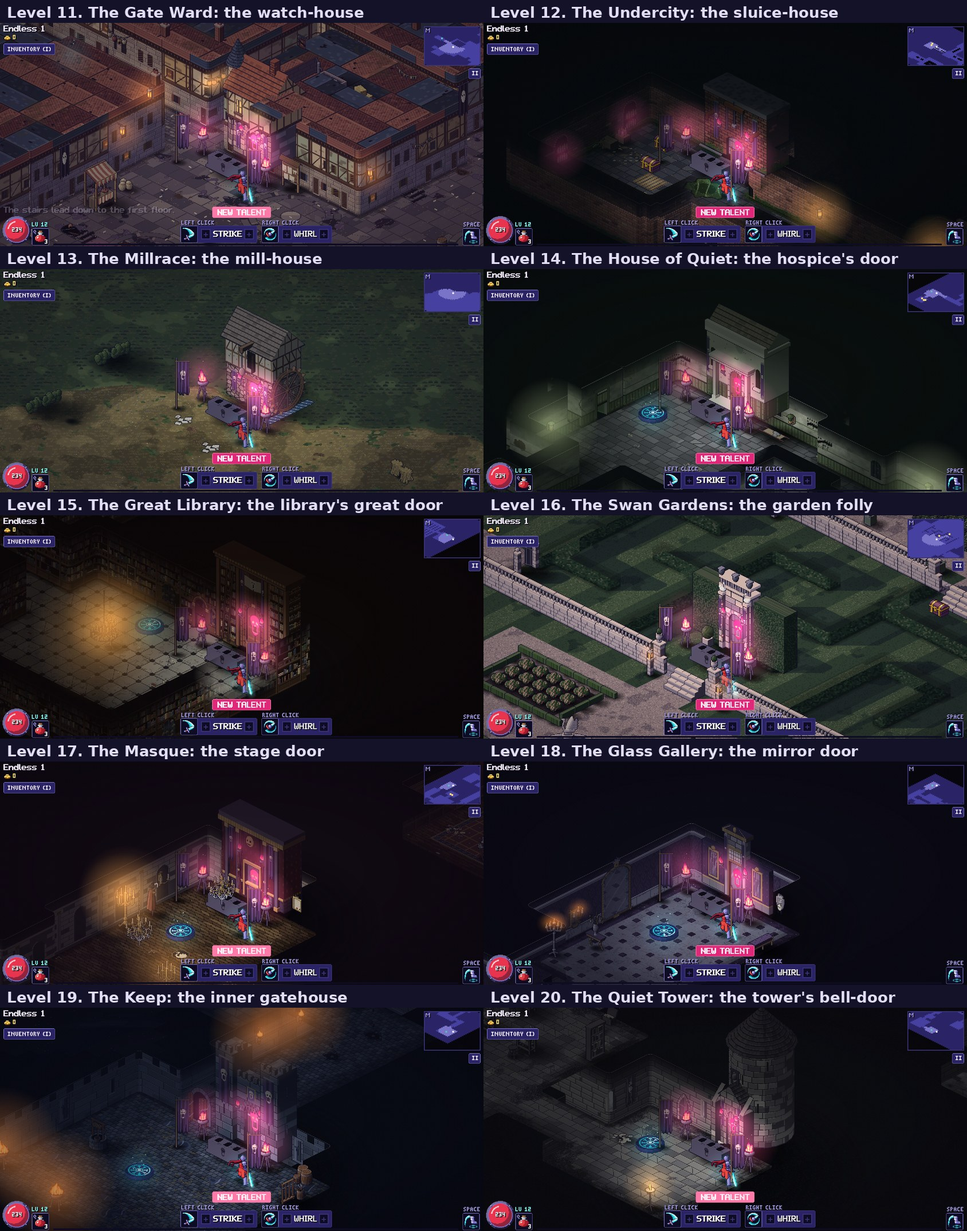
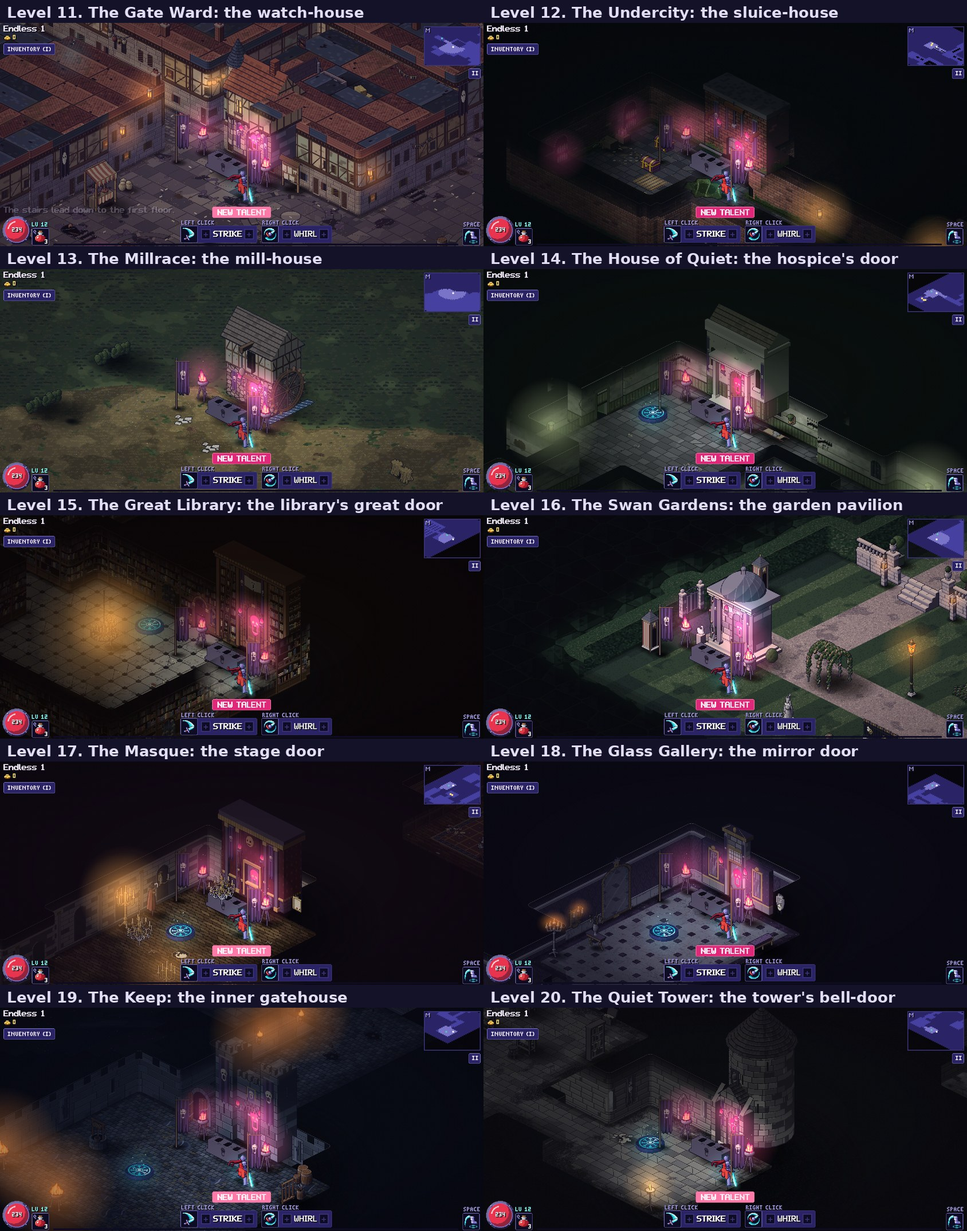
Level 16's stronghold front a garden pavilion standing on its own, at his word
His word, 25 Nov 2026: “16 doesn’t work as well”. The folly's hedges jammed against the gardens'
own balustrades and steps; it is now a small limestone temple on two steps, four columns, a ribbed
lead dome, swans on plinths, clipped box, roses, the cult's banners and fire: “the garden pavilion”.
Pictured on the gardens' open lawn (the scenario's OPEN).

Claude-Session: https://claude.ai/code/session_01JYSqoWBVKqU7pDHBLP4BaC

Changed region(s): [[0.4929, 0.4051, 1.0, 0.6233]]

diff --git a/src/art/hold_fronts.ts b/src/art/hold_fronts.ts
@@ -802,9 +802,12 @@ function libraryFront(open: boolean, f: number): Sprite {
 // =================================================================================================
 // FLOOR 16, THE SWAN GARDENS: THE SWAN PAVILION (art/floor16.ts)
 //
-// THE GARDEN FOLLY taken by the cult: an arch of the gardens' pale limestone set in a tall clipped yew hedge, a swan carved on each
-// pier, a balustrade and urns of lead on its top, clipped balls of box on plinths either side, roses climbing the stone; its door
-// sheeted in lead; the cult's banners hung from the arch, its pink fire, its mark burning in the lead.
+// THE GARDEN PAVILION taken by the cult, standing on its own in the gardens (his word on its first try, an arch in a yew hedge, 25
+// Nov 2026: “16 doesn’t work as well”; read as, and told him so: its hedges jammed against the gardens' own balustrades and steps,
+// where a garden building should stand on its own): a small temple of the gardens' pale limestone on a plinth of two steps, four
+// columns across its front, its room behind them with its door sheeted in lead, a ribbed dome of lead with a lantern on its crown,
+// a carved swan on a plinth at each front corner, clipped box either side, roses up a column; the cult's banners hung between its
+// columns, its pink fire either side of its door, its mark burning in the lead.
 
 
 /** A carved SWAN sitting on a plinth's top at (x, y, z): its body, its neck curved up, its head, facing `dir` (1: to the right). */
@@ -820,47 +823,50 @@ function swan(F: Front, x: number, y: number, z: number, dir: number, stone: Ram
 
 function follyFront(open: boolean, f: number): Sprite {
   const F = new Front();
-  const yew = leaves(SWAN.YEW, 2601, 1.6);
   const lime = ashlar(SWAN.LIMESTONE, SWAN.LIMESTONE[0], 2602, 10, 18);
-  // THE HEDGE either side, tall and clipped square
-  F.box(-98, -40, -30, -12, 0, 96, { all: yew, top: leaves(SWAN.YEW, 2603, 1.6) });
-  F.box(30, -40, 98, -12, 0, 96, { all: yew, top: leaves(SWAN.YEW, 2604, 1.6) });
-  // THE ARCH of limestone between, its piers standing out a little, a swan on each
-  const DOOR: Arch = { half: 15, spring: 50, shape: 'round' };
-  F.box(-32, -24, 32, -6, 0, 104, lime, (w, n) => n[1] > 0.5 && inArch(DOOR, w[0], w[2]));
-  voussoirs(F, DOOR, -6, 5, SWAN.LIMESTONE, SWAN.LIMESTONE[0], 0, (w, n) => lit(n, SWAN.LIMESTONE, 1));
-  door(F, DOOR, -6, 5, open, f, { slab: (x, z, n) => (fr(x / 7) < 0.1 || fr(z / 12) < 0.07 ? SWAN.LEAD[0] : lit(n, SWAN.LEAD, 0)) }, lime);
-  for (const x of [-30, 22]) {
-    F.box(x, -8, x + 8, 0, 0, 92, lime);
-    F.box(x - 1, -9, x + 9, 1, 92, 96, plain(SWAN.LIMESTONE, 1, 0.1));
-    swan(F, x + 4, -4, 96, x < 0 ? 1 : -1, SWAN.SWANW);
+  const limeTop = plain(SWAN.LIMESTONE, 1, 0.1);
+  // ITS PLINTH, two steps of limestone
+  F.box(-48, -58, 48, 14, 0, 4, { front: plain(SWAN.LIMESTONE, 0, 0.05), side: plain(SWAN.LIMESTONE, -1), top: limeTop });
+  F.box(-44, -54, 44, 9, 4, 8, { front: plain(SWAN.LIMESTONE, 0, 0.05), side: plain(SWAN.LIMESTONE, -1), top: limeTop });
+  // ITS ROOM, behind the columns, its door
+  const DOOR: Arch = { half: 12, spring: 44, shape: 'round' };
+  F.box(-32, -50, 32, -10, 8, 94, lime, (w, n) => n[1] > 0.5 && inArch(DOOR, w[0], w[2] - 8));
+  voussoirs(F, { ...DOOR, spring: DOOR.spring + 8 }, -10, 4, SWAN.LIMESTONE, SWAN.LIMESTONE[0], 0, (w, n) => lit(n, SWAN.LIMESTONE, 1));
+  door(F, { ...DOOR, spring: DOOR.spring + 8 }, -10, 4, open, f, { slab: (x, z, n) => (z < 8 ? SWAN.LEAD[0] : fr(x / 7) < 0.1 || fr(z / 12) < 0.07 ? SWAN.LEAD[0] : lit(n, SWAN.LEAD, 0)) }, lime);
+  // ITS COLUMNS across the front, their capitals; the entablature on them
+  for (const x of [-41, -28, 28, 41]) {
+    F.box(x - 4.5, -2.5, x + 4.5, 6.5, 8, 12, plain(SWAN.LIMESTONE, 0, 0.05));
+    F.column(x, 2, 12, 86, 3.4, SWAN.LIMESTONE, 3);
+    F.box(x - 4.5, -2.5, x + 4.5, 6.5, 86, 90, plain(SWAN.LIMESTONE, 1, 0.1));
   }
-  // its balustrade and urns on top
-  F.box(-34, -26, 34, -4, 104, 108, plain(SWAN.LIMESTONE, 1, 0.1));
-  for (let x = -30; x <= 30; x += 5) F.column(x, -6, 108, 118, 1.5, SWAN.LIMESTONE, 1.1);
-  F.box(-34, -26, 34, -4, 118, 122, plain(SWAN.LIMESTONE, 1, 0.1));
-  for (const x of [-30, 0, 30]) {
-    F.egg([x, -6, 128], [4.4, 4.4, 5.2], (n) => lit(n as V3, SWAN.LEAD, 0));
-    F.box(x - 2, -8, x + 2, -4, 122, 124, plain(SWAN.LEAD, 0));
-    F.box(x - 4, -10, x + 4, -2, 132, 134, plain(SWAN.LEAD, 1));
+  F.box(-48, -54, 48, 8, 90, 98, { front: (w, n) => (Math.abs(w[2] - 94) < 0.8 ? SWAN.LIMESTONE[1] : lit(n, SWAN.LIMESTONE, 1, 0.05)), side: plain(SWAN.LIMESTONE, 0), top: plain(SWAN.LEAD, 0) });
+  // ITS DOME of lead, ribbed, a lantern on its crown
+  F.egg([0, -23, 98], [34, 34, 30], (n, w) => {
+    if (w[2] < 98.5) return null;
+    const a = Math.atan2(w[1] + 23, w[0]);
+    if (fr(a / (Math.PI / 8)) < 0.1) return lit(n as V3, SWAN.LEAD, 1);
+    return lit(n as V3, SWAN.LEAD, 0);
+  });
+  F.column(0, -23, 124, 134, 3, SWAN.LIMESTONE, 3);
+  F.egg([0, -23, 137], [4, 4, 3.4], (n) => lit(n as V3, SWAN.LEAD, 1));
+  F.rod([0, -23, 140], [0, -23, 148], 0.8, SWAN.LEAD, 0.2);
+  // ITS SWANS on plinths at its front corners, CLIPPED BOX either side, ROSES up a column
+  for (const s2 of [-1, 1]) {
+    F.box(s2 * 54 - 5, 10, s2 * 54 + 5, 20, 0, 18, { front: plain(SWAN.LIMESTONE, 0, 0.05), side: plain(SWAN.LIMESTONE, -1), top: limeTop });
+    swan(F, s2 * 54, 15, 18, -s2, SWAN.SWANW);
+    F.egg([s2 * 60, -24, 11], [9, 9, 11], (n, w) => lit(n as V3, SWAN.BOX, hash(Math.floor(w[0] / 2), Math.floor(w[2] / 2), 2605) > 0.7 ? -1 : 0));
   }
-  // THE BOX either side, clipped round on plinths
-  for (const x of [-46, 46]) {
-    F.box(x - 6, 2, x + 6, 14, 0, 12, plain(SWAN.LIMESTONE, 0, 0.05));
-    F.egg([x, 8, 22], [9, 9, 10], (n, w) => lit(n as V3, SWAN.BOX, hash(Math.floor(w[0] / 2), Math.floor(w[2] / 2), 2605) > 0.7 ? -1 : 0));
-  }
-  // ROSES climbing the left pier
   const rid = F.id();
-  for (let k = 0; k < 9; k++) {
-    const z = 10 + k * 9;
-    F.rod([-26 + Math.sin(k) * 3, -0.5, z], [-26 + Math.sin(k + 1) * 3, -0.5, z + 9], 0.7, SWAN.BOX, 0.7, rid);
-    if (k % 2) F.ball([-26 + Math.sin(k) * 3 + 1.5, 0, z + 3], 1.6, SWAN.ROSE, 0.2);
+  for (let k = 0; k < 8; k++) {
+    const z = 12 + k * 9;
+    F.rod([-41 + Math.sin(k) * 3.4, 5.6, z], [-41 + Math.sin(k + 1) * 3.4, 5.6, z + 9], 0.7, SWAN.BOX, 0.7, rid);
+    if (k % 2) F.ball([-41 + Math.sin(k) * 3.4 + 1.4, 6, z + 3], 1.6, SWAN.ROSE, 0.2);
   }
-  // the cult's banners hung under the arch's piers, its pink fire
-  banner(F, -29, -23, 30, 88, 0.1, IRON_Q);
-  banner(F, 23, 29, 30, 88, 0.1, IRON_Q);
-  sconce(F, -21, -6, 60, f, IRON_Q);
-  sconce(F, 21, -6, 60, f, IRON_Q);
+  // the cult's banners hung between the outer columns, its pink fire either side of the door
+  banner(F, -38, -31, 30, 86, 2, IRON_Q);
+  banner(F, 31, 38, 30, 86, 2, IRON_Q);
+  sconce(F, -19, -10, 64, f, IRON_Q);
+  sconce(F, 19, -10, 64, f, IRON_Q);
   return F.finish();
 }
 

diff --git a/src/game/act1_dress.ts b/src/game/act1_dress.ts
@@ -453,7 +453,7 @@ export const FRONT_NAMES: Readonly<Record<number, string>> = {
   13: 'the mill-house',
   14: "the hospice's door",
   15: "the library's great door",
-  16: 'the garden folly',
+  16: 'the garden pavilion',
   17: 'the stage door',
   18: 'the mirror door',
   19: 'the inner gatehouse',

diff --git a/docs/mockups/hold_fronts/README.md b/docs/mockups/hold_fronts/README.md
@@ -41,7 +41,7 @@ cult's banners and its pink fire in sconces, in the floor's own colours otherwis
 | 13 The Millrace | the mill-house: fieldstone below, timber framing and limewash above, a slate roof, a hoist-beam with a sack, the great water-wheel in the race |
 | 14 The House of Quiet | the hospice's door: pale green-white limewash over the infirmary's green boarding, a marble porch, mahogany double doors, a faintly lit lunette, a slate roof behind a parapet |
 | 15 The Great Library | the library's great door: shelves of books to the cornice, walnut pilasters, gilt, tall walnut doors, an open book carved over them with the cult's mark across its pages, a ladder |
-| 16 The Swan Gardens | the garden folly: an arch of pale limestone in a clipped yew hedge, swans carved on its piers, a balustrade with lead urns, clipped box, roses |
+| 16 The Swan Gardens | the garden pavilion, standing on its own in the gardens (his word on its first try, below): a small temple of the gardens' pale limestone on two steps, four columns across its front, its room behind them with its door sheeted in lead, a ribbed lead dome with a lantern, carved swans on plinths at its front corners, clipped box, roses up a column |
 | 17 The Masque | the stage door: ebony and gilt over the masque's dark wine damask, velvet curtains drawn back and tied, a gilt mask over the door |
 | 18 The Glass Gallery | the mirror door, built as a run of the gallery's own wall (his word on its first try, below): the wall either side at the gallery's height, violet damask over grey stone and a gilt rail, a great mirror in gilt on each; the door's bay higher, grey stone pilasters, a glazed fanlight, the door of mirror-glass, a gilt cornice with a broken pediment |
 | 19 The Keep | the inner gatehouse: two square towers of the keep's cold stone with battlements, the portcullis drawn up, the king's arms in gold with the cult's skull painted across them |
@@ -96,4 +96,9 @@ the mirror door stood out on the open floor like a cabinet, where it should be p
 run of the gallery's own wall (above), and pictured against the gallery's back wall (`WALL=4`, a place with four tiles of wall
 behind it either way); the rest as they were.
 
-WAITING FOR HIS WORD ON 18.
+Shown 18 so, asked whether it is right now. HIS WORD: **“16 doesn’t work as well”** (read as: 18 is right; 16 has the same trouble).
+Read as, and told him so: on 16 the folly's yew hedges jammed against the gardens' own balustrades and steps, where a garden
+building should stand on its own. So 16 is rebuilt as a garden pavilion standing free (above), named `the garden pavilion`, and
+pictured on the gardens' open lawn by a path (`OPEN=1 PICK=3`, a place with open ground behind it as well as before it).
+
+WAITING FOR HIS WORD ON 16.
